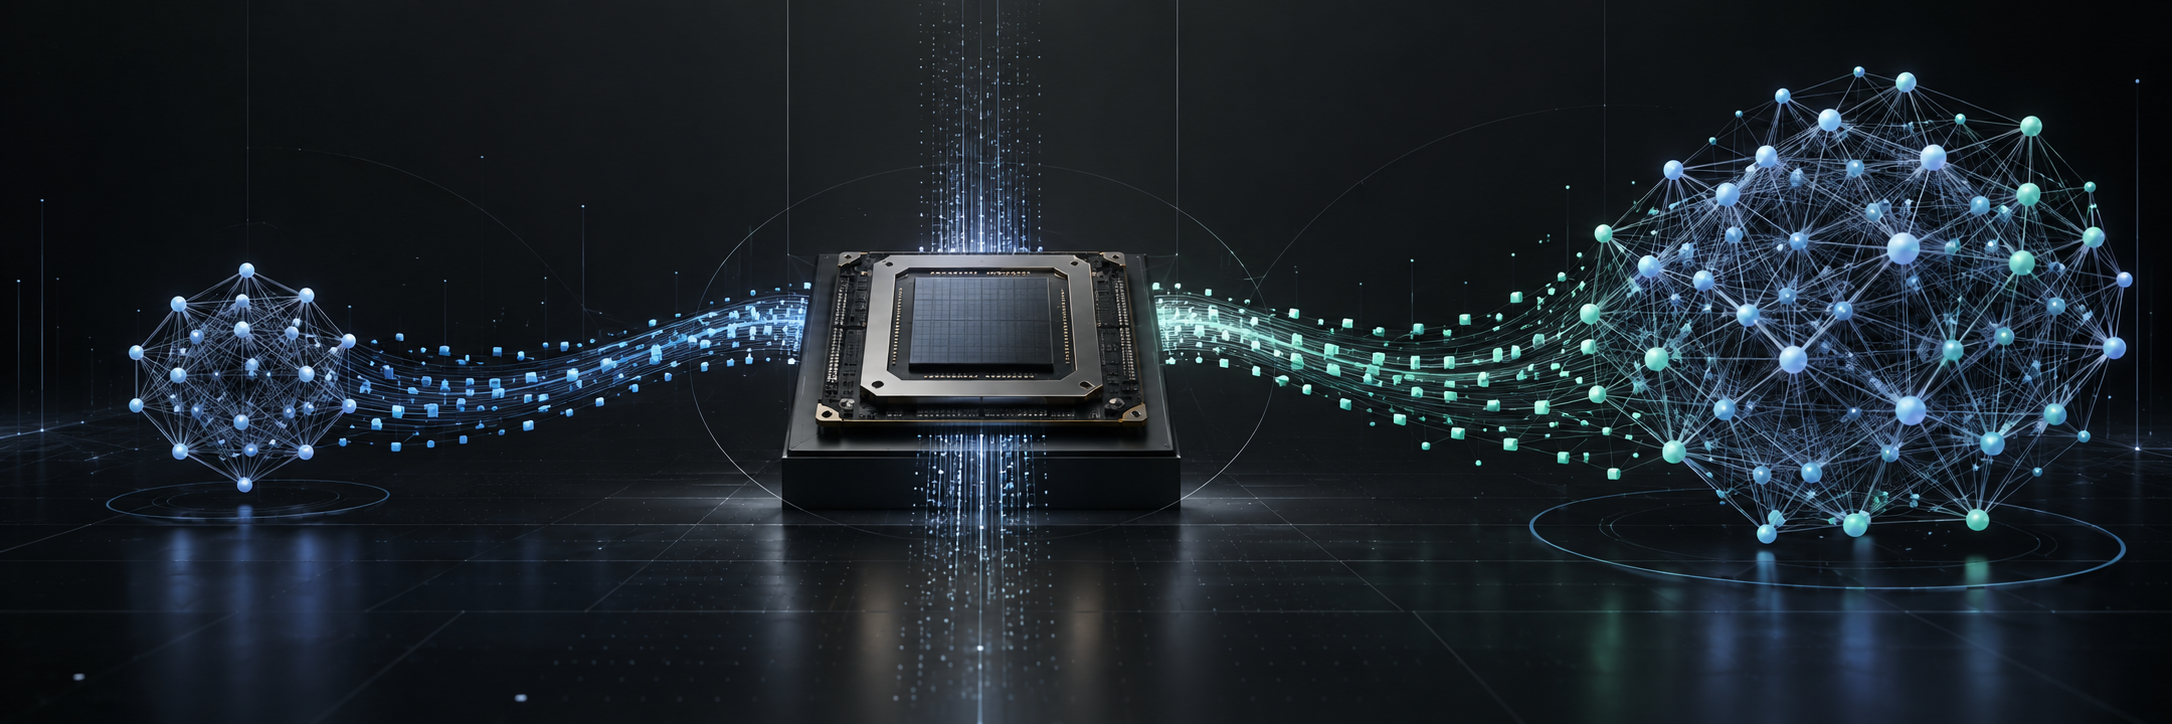
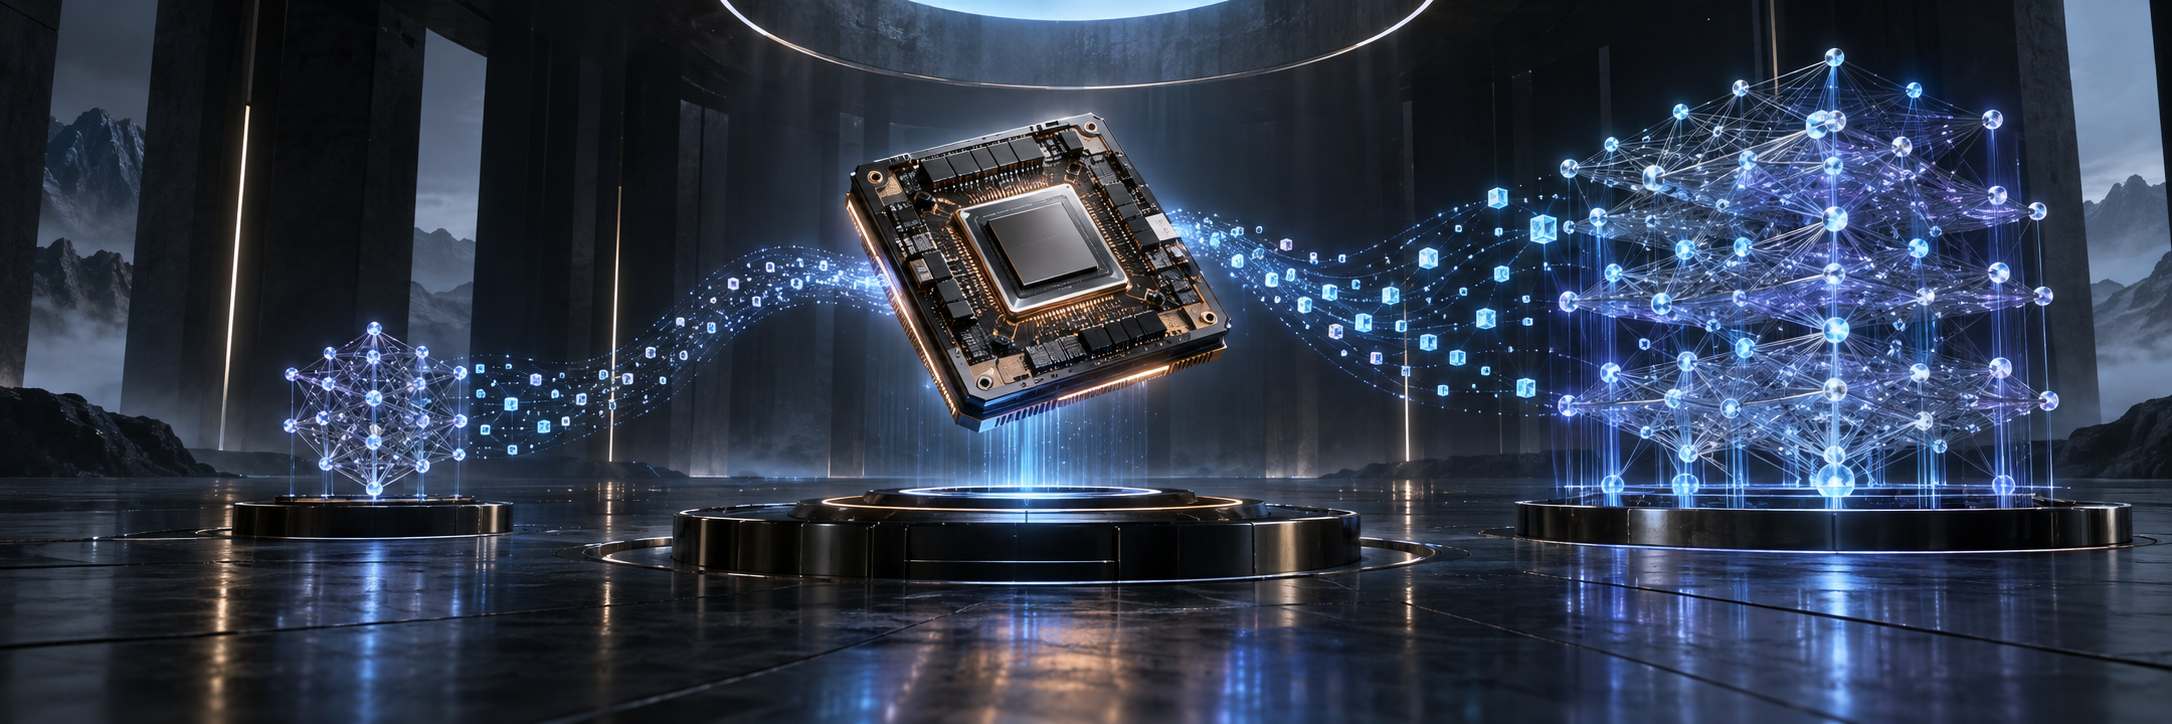
docs: upgrade collection cover to cinematic 3d

diff --git a/README.md b/README.md
@@ -1,5 +1,5 @@
 <p align="center">
-  <img src="assets/pretraining-lab-cover.png" width="100%" alt="Pretraining Lab — one GPU powering two auditable language-model pretraining runs">
+  <img src="assets/pretraining-lab-cover.png" width="100%" alt="Pretraining Lab — cinematic 3D visualization of one GPU powering two auditable language-model pretraining runs">
 </p>
 
 <p align="center">
